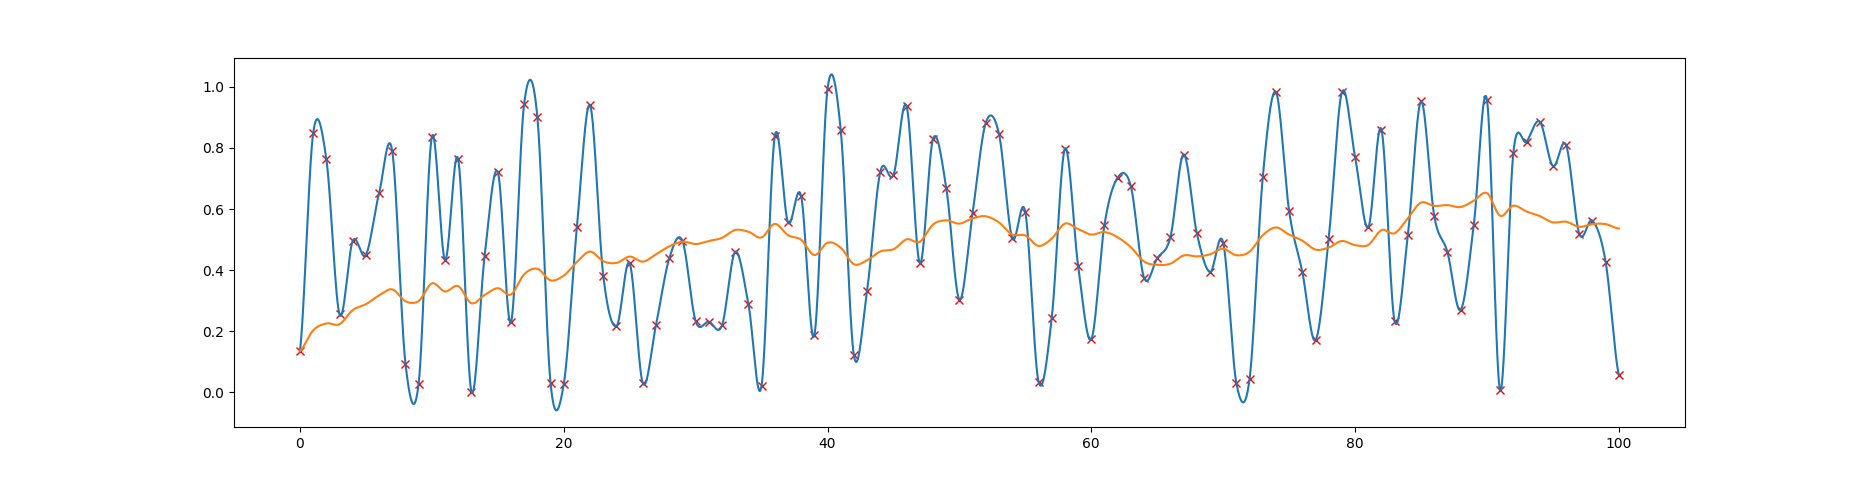
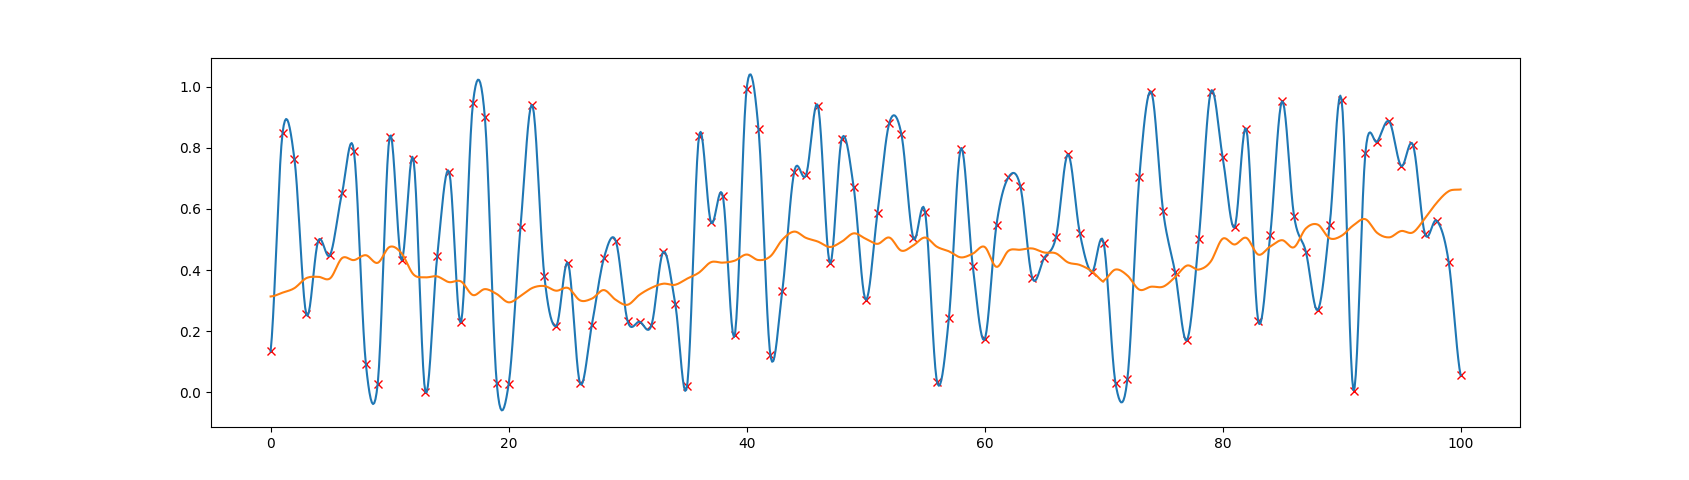
fix noise at border

diff --git a/perlin.py b/perlin.py
@@ -71,16 +71,17 @@ def perlin_noise(x):
     frequency = 1. / pow(5,octave-1)
     persitance = .5
 
-    sum = 0
     result = 0
 
     for i in range(0,octave):
-        sum += amplitude
-        result += amplitude * smooth_cubic_noise(x * frequency)
+        t = i * 10
+        result += amplitude * smooth_cubic_noise(((x * frequency) + t) % N)
         frequency *= 5
         amplitude *= persitance
 
-    return result / sum
+    geom_lim = (1. - persitance) / (1. - amplitude)
+
+    return result * geom_lim
 
 
 sampling = N * 10
@@ -88,23 +89,4 @@ x = list(np.linspace(0,N,sampling))
 y = list(map(perlin_noise,x))
 
 ax.plot(x,y)
-
-
-def animate(i):
-    i = i / 10.
-
-    # sampling = N * 10
-    # x = list(np.linspace(i,i+N,sampling))
-    # y = list(map(perlin_noise,x))
-
-    ax.clear()
-
-    # plot discret noise
-    ax.plot(X,Y,'xr')
-
-    # plot perlin
-    ax.plot(x,y)
-
-# ani = FuncAnimation(fig, animate, interval=100)
-
 plt.show()
